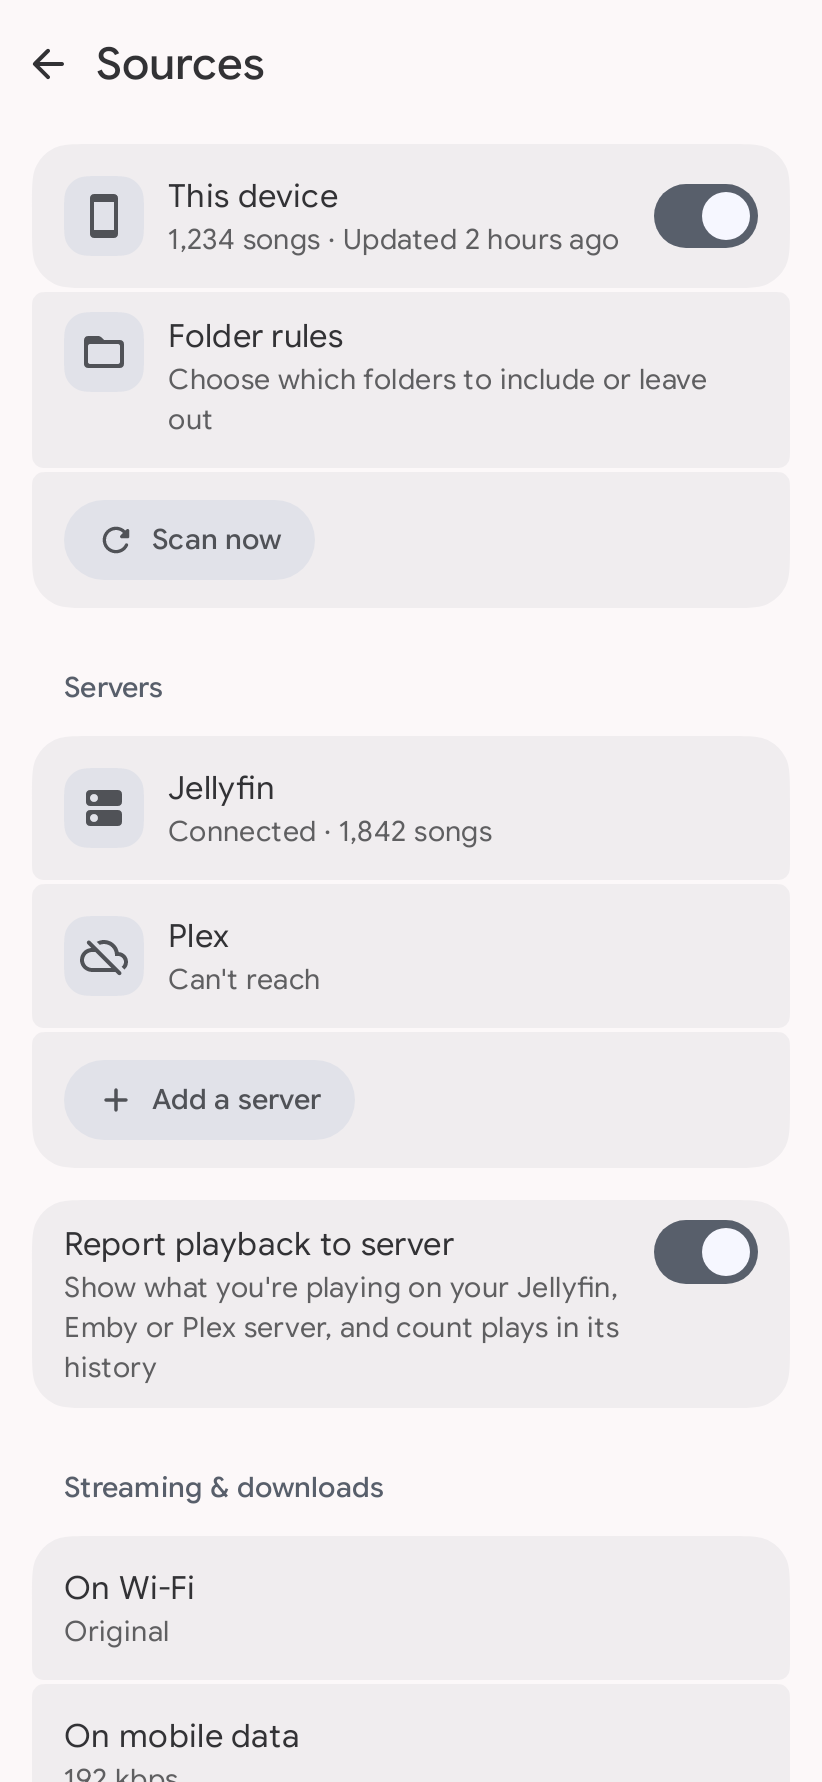
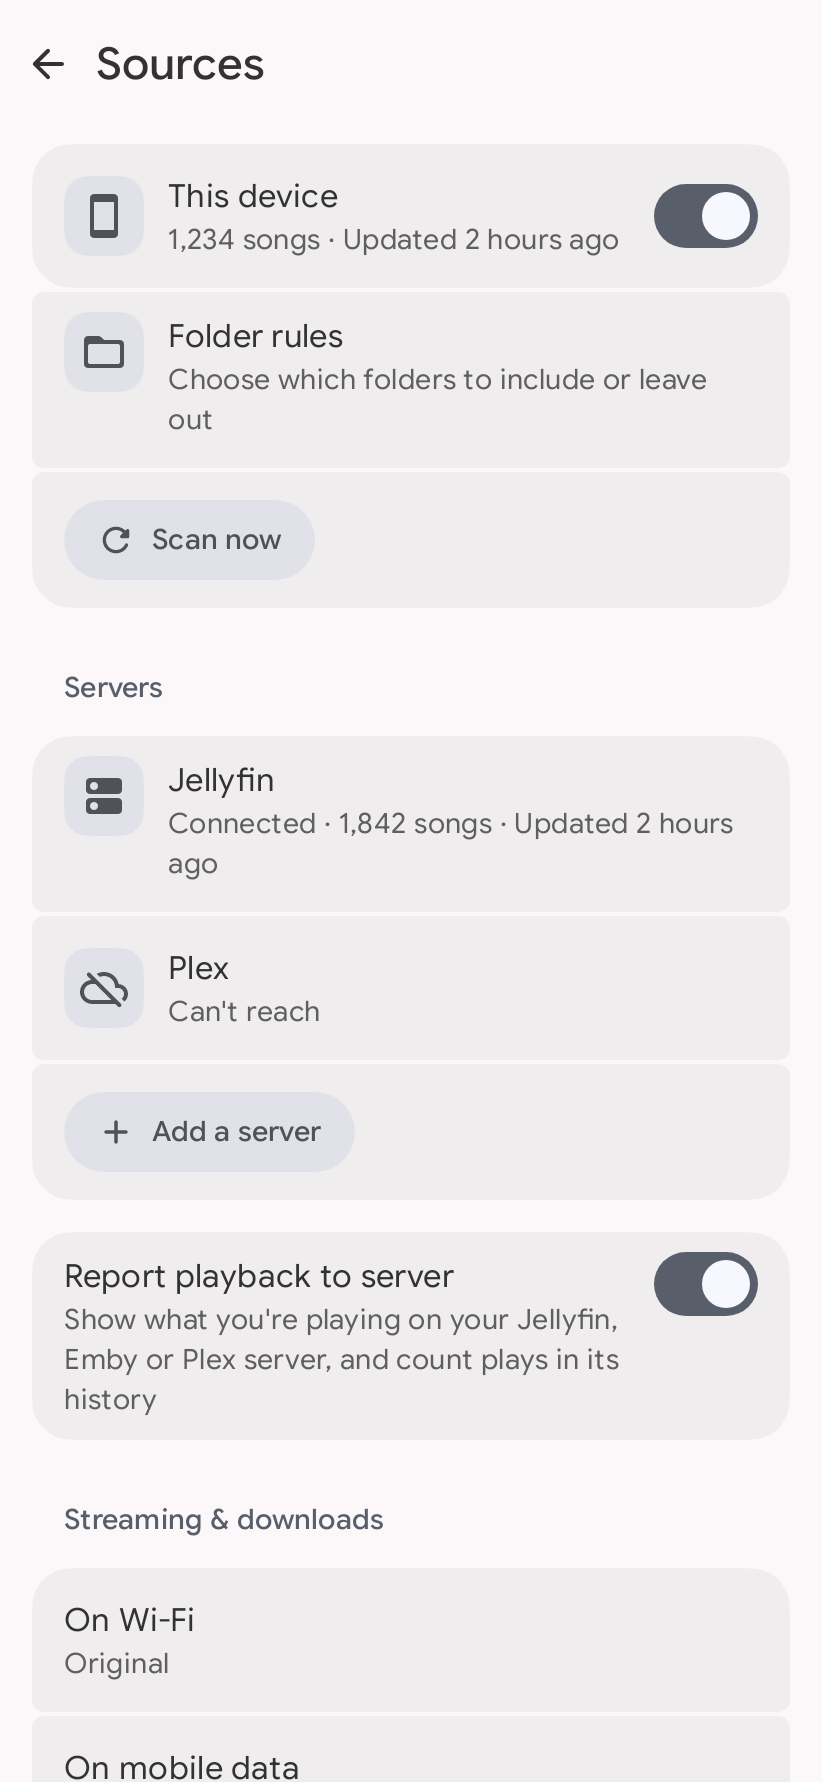
feat(sources): show each source's own last-updated time
MediaImporter records when each source's import last completed; Sources rows show it instead of the app-wide scan time.

Changelog: none
Refs #668 (items 1-2; the SourcesViewModel split stays deferred)

diff --git a/android/presentation/src/commonMain/kotlin/com/simplecityapps/shuttle/ui/screens/sources/SourcesViewModel.kt b/android/presentation/src/commonMain/kotlin/com/simplecityapps/shuttle/ui/screens/sources/SourcesViewModel.kt
@@ -29,6 +29,8 @@ data class ServerSource(
     val connected: Boolean,
     val status: SourceStatus = SourceStatus.Idle,
     val songs: Int? = null,
+    /** When an import from it last completed, if one has. */
+    val updated: Instant? = null,
 )
 
 data class SourcesUiState(
@@ -45,8 +47,10 @@ data class SourcesUiState(
     val deviceStatus: SourceStatus = SourceStatus.Idle,
     /** Songs from this device, once the library has loaded. */
     val deviceSongs: Int? = null,
+    /** When an import of this device's music last completed, if one has. */
+    val deviceUpdated: Instant? = null,
     val servers: List<ServerSource> = ServerTypes.map { ServerSource(it, connected = false) },
-    /** When an import last finished, if one ever has. */
+    /** When any import last finished, if one ever has: iOS's scan row shows it. */
     val lastImport: Instant? = null,
     val events: List<PendingEvent<SourcesEvent>> = emptyList(),
 )
@@ -78,11 +82,12 @@ class SourcesViewModel @Inject constructor(
     private val forgetServer: ForgetServer,
     observeSongCounts: ObserveSongCounts,
     observeSourceReachability: ObserveSourceReachability,
+    observeSourceUpdated: ObserveSourceUpdated,
 ) : ViewModel() {
     private val events = PendingEvents<SourcesEvent>()
 
     private val imports: Flow<Imports> =
-        combine(importState.songImportState, importState.providerImportStates, observeSongCounts(), observeSourceReachability(), ::Imports)
+        combine(importState.songImportState, importState.providerImportStates, observeSongCounts(), observeSourceReachability(), observeSourceUpdated(), ::Imports)
 
     val uiState: StateFlow<SourcesUiState> =
         combine(mediaSources.enabledTypes, observeScannerFolders(), imports, observeLastScanDate(), events.flow) { types, folders, imports, lastImport, events ->
@@ -95,8 +100,9 @@ class SourcesViewModel @Inject constructor(
                 scanError = (latest as? SongImportState.ImportComplete)?.error,
                 deviceStatus = sourceStatus(types.firstOrNull { it.isLocal }?.let(imports.byProvider::get)),
                 deviceSongs = imports.songCounts?.filterKeys { it.isLocal }?.values?.sum(),
+                deviceUpdated = imports.updated.filterKeys { it.isLocal }.values.filterNotNull().maxOrNull(),
                 servers = ServerTypes.map { type ->
-                    ServerSource(type, connected = type in types, status = sourceStatus(imports.byProvider[type], imports.reachability[type]), songs = imports.songCounts?.let { it[type] ?: 0 })
+                    ServerSource(type, connected = type in types, status = sourceStatus(imports.byProvider[type], imports.reachability[type]), songs = imports.songCounts?.let { it[type] ?: 0 }, updated = imports.updated[type])
                 },
                 lastImport = lastImport,
                 events = events,
@@ -145,11 +151,12 @@ class SourcesViewModel @Inject constructor(
 
     fun onEventHandled(id: Long) = events.consume(id)
 
-    /** The importer's latest state, each provider's own, the library's songs per provider, and how each server's last import ended. */
+    /** The importer's latest state, each provider's own, the library's songs per provider, how each server's last import ended, and when each source last updated. */
     private data class Imports(
         val latest: SongImportState,
         val byProvider: Map<MediaProviderType, SongImportState>,
         val songCounts: Map<MediaProviderType, Int>?,
         val reachability: Map<MediaProviderType, SourceReachability?>,
+        val updated: Map<MediaProviderType, Instant?>,
     )
 }

diff --git a/android/app/src/main/java/com/simplecityapps/shuttle/ui/screens/sources/SourcesScreen.kt b/android/app/src/main/java/com/simplecityapps/shuttle/ui/screens/sources/SourcesScreen.kt
@@ -115,7 +115,7 @@ fun LazyListScope.sourcesContent(uiState: SourcesUiState, actions: SourcesAction
                 @Composable { shapes: ListItemShapes ->
                     LinkSetting(
                         title = stringResource(server.type.titleRes),
-                        summary = serverStatusLine(server),
+                        summary = serverStatusLine(server, now),
                         onClick = { actions.onServerClick(server) },
                         icon = if (server.status is SourceStatus.Failed) Icons.Rounded.CloudOff else Icons.Rounded.Dns,
                         progress = server.status.progress,
@@ -138,7 +138,7 @@ fun LazyListScope.sourcesContent(uiState: SourcesUiState, actions: SourcesAction
     }
 }
 
-/** This device's status: a scan's progress or failure, else its songs and when the library last updated. */
+/** This device's status: a scan's progress or failure, else its songs and when it last updated. */
 @Composable
 private fun deviceStatusLine(uiState: SourcesUiState, now: Instant): String = when (val status = uiState.deviceStatus) {
     is SourceStatus.Importing -> status.progress?.let { progress ->
@@ -149,7 +149,7 @@ private fun deviceStatusLine(uiState: SourcesUiState, now: Instant): String = wh
 
     SourceStatus.Idle -> {
         val songs = uiState.deviceSongs?.let { songsLabel(it) }
-        val updated = uiState.lastImport?.let { updatedLabel(it, now) }
+        val updated = uiState.deviceUpdated?.let { updatedLabel(it, now) }
         when {
             songs != null && updated != null -> stringResource(R.string.sources_status_songs_updated, songs, updated)
             else -> songs ?: updated ?: stringResource(R.string.sources_this_device_summary)
@@ -157,9 +157,9 @@ private fun deviceStatusLine(uiState: SourcesUiState, now: Instant): String = wh
     }
 }
 
-/** A server's status: syncing with its progress, unreachable, or connected with its songs. */
+/** A server's status: syncing with its progress, unreachable, or connected with its songs and when it last updated. */
 @Composable
-private fun serverStatusLine(server: ServerSource): String = when (val status = server.status) {
+private fun serverStatusLine(server: ServerSource, now: Instant): String = when (val status = server.status) {
     is SourceStatus.Importing -> status.progress?.let { progress ->
         stringResource(R.string.sources_server_syncing_count, progress.progress.formatted(), progress.total.formatted())
     } ?: stringResource(R.string.sources_server_syncing)
@@ -168,7 +168,8 @@ private fun serverStatusLine(server: ServerSource): String = when (val status = 
 
     SourceStatus.Idle -> {
         val connected = stringResource(R.string.sources_server_connected)
-        server.songs?.let { stringResource(R.string.sources_status_songs_updated, connected, songsLabel(it)) } ?: connected
+        val withSongs = server.songs?.let { stringResource(R.string.sources_status_songs_updated, connected, songsLabel(it)) } ?: connected
+        server.updated?.let { stringResource(R.string.sources_status_songs_updated, withSongs, updatedLabel(it, now)) } ?: withSongs
     }
 }
 

diff --git a/android/presentation/src/commonTest/kotlin/com/simplecityapps/shuttle/ui/screens/sources/SourcesViewModelTest.kt b/android/presentation/src/commonTest/kotlin/com/simplecityapps/shuttle/ui/screens/sources/SourcesViewModelTest.kt
@@ -65,6 +65,7 @@ class SourcesViewModelTest {
         ForgetServer(mapOf(MediaProviderType.Emby to emby)),
         ObserveSongCounts(songs),
         ObserveSourceReachability(preferences),
+        ObserveSourceUpdated(preferences),
     ).also { viewModel ->
         backgroundScope.launch(UnconfinedTestDispatcher(testScheduler)) { viewModel.uiState.collect {} }
     }
@@ -205,6 +206,25 @@ class SourcesViewModelTest {
         importState.setState(SongImportState.ImportComplete(MediaProviderType.Jellyfin, null))
         preferences.setSourceReachability("Jellyfin", SourceReachability(null, Instant.fromEpochMilliseconds(2_000)))
         viewModel.uiState.value.servers.first { it.type == MediaProviderType.Jellyfin }.status shouldBe SourceStatus.Idle
+    }
+
+    @Test
+    fun `each source shows when its own import last completed`() = runTest {
+        val viewModel = viewModel(FakeMediaSources(MediaProviderType.Shuttle, MediaProviderType.Jellyfin, MediaProviderType.Plex))
+        val device = Instant.fromEpochMilliseconds(1_000)
+        val jellyfin = Instant.fromEpochMilliseconds(2_000)
+        viewModel.uiState.value.deviceUpdated shouldBe null
+        viewModel.uiState.value.servers.map { it.updated } shouldBe listOf(null, null, null)
+
+        preferences.setSourceUpdated("Shuttle", device)
+        preferences.setSourceUpdated("Jellyfin", jellyfin)
+
+        viewModel.uiState.value.deviceUpdated shouldBe device
+        viewModel.uiState.value.servers.associate { it.type to it.updated } shouldBe mapOf(
+            MediaProviderType.Jellyfin to jellyfin,
+            MediaProviderType.Emby to null,
+            MediaProviderType.Plex to null,
+        )
     }
 
     @Test

diff --git a/android/presentation/src/commonMain/kotlin/com/simplecityapps/shuttle/ui/screens/sources/SourceStatus.kt b/android/presentation/src/commonMain/kotlin/com/simplecityapps/shuttle/ui/screens/sources/SourceStatus.kt
@@ -8,6 +8,7 @@ import com.simplecityapps.shuttle.persistence.GeneralPreferenceManager
 import com.simplecityapps.shuttle.persistence.SourceReachability
 import com.simplecityapps.shuttle.query.SongQuery
 import dev.zacsweers.metro.Inject
+import kotlin.time.Instant
 import kotlinx.coroutines.flow.Flow
 import kotlinx.coroutines.flow.combine
 import kotlinx.coroutines.flow.map
@@ -32,6 +33,15 @@ internal fun sourceStatus(state: SongImportState?, stored: SourceReachability? =
     is SongImportState.ImportProgress -> SourceStatus.Importing(state.progress)
     is SongImportState.ImportComplete -> state.error?.let(SourceStatus::Failed) ?: SourceStatus.Idle
     SongImportState.Idle, null -> stored?.error?.let(SourceStatus::Failed) ?: SourceStatus.Idle
+}
+
+/** When each source's import last completed successfully, now and each time one does (#668). */
+class ObserveSourceUpdated @Inject constructor(
+    private val generalPreferenceManager: GeneralPreferenceManager
+) {
+    operator fun invoke(): Flow<Map<MediaProviderType, Instant?>> = combine(MediaProviderType.entries.map { type -> generalPreferenceManager.observeSourceUpdated(type.name) }) { updated ->
+        MediaProviderType.entries.zip(updated.toList()).toMap()
+    }
 }
 
 /** How each server's last import ended, now and each time one ends (#668). */

diff --git a/android/app/src/test/java/com/simplecityapps/shuttle/ui/screens/sources/SourcesScenarios.kt b/android/app/src/test/java/com/simplecityapps/shuttle/ui/screens/sources/SourcesScenarios.kt
@@ -10,7 +10,7 @@ object SourcesScenarios {
     /** "Now" for the status lines, so "Updated 2 hours ago" never moves. */
     val now: Instant = Instant.parse("2026-09-30T12:00:00Z")
 
-    private fun servers(vararg connected: Pair<MediaProviderType, SourceStatus>) = ServerTypes.map { type -> connected.toMap()[type]?.let { ServerSource(type, connected = true, status = it, songs = 1_842) } ?: ServerSource(type, connected = false) }
+    private fun servers(vararg connected: Pair<MediaProviderType, SourceStatus>) = ServerTypes.map { type -> connected.toMap()[type]?.let { ServerSource(type, connected = true, status = it, songs = 1_842, updated = now - 2.hours) } ?: ServerSource(type, connected = false) }
 
     /** This device on with an excluded and an extra folder, and Jellyfin connected; everything up to date. */
     val configured = SourcesUiState(
@@ -20,6 +20,7 @@ object SourcesScenarios {
             extras = listOf(SourceFolder(uri = "content://tree/Audiobooks", path = "/storage/emulated/0/Audiobooks", name = "Audiobooks")),
         ),
         deviceSongs = 1_234,
+        deviceUpdated = now - 2.hours,
         lastImport = now - 2.hours,
         servers = servers(MediaProviderType.Jellyfin to SourceStatus.Idle),
     )

diff --git a/android/core/src/commonMain/kotlin/com/simplecityapps/shuttle/persistence/GeneralPreferenceManager.kt b/android/core/src/commonMain/kotlin/com/simplecityapps/shuttle/persistence/GeneralPreferenceManager.kt
@@ -289,6 +289,17 @@ class GeneralPreferenceManager @Inject constructor(
     /** [sourceReachability] now and each time an import of [source] ends. */
     fun observeSourceReachability(source: String): Flow<SourceReachability?> = store.changes("source_checked_at_$source").map { sourceReachability(source) }.distinctUntilChanged()
 
+    /** When an import of [source] (a media provider type's name) last completed successfully, for its row in Sources (#668). */
+    fun sourceUpdated(source: String): Instant? = store.getInstant("source_updated_$source")
+
+    fun setSourceUpdated(
+        source: String,
+        updated: Instant?
+    ) = store.putInstant("source_updated_$source", updated)
+
+    /** [sourceUpdated] now and each time it changes. */
+    fun observeSourceUpdated(source: String): Flow<Instant?> = store.changes("source_updated_$source").map { sourceUpdated(source) }.distinctUntilChanged()
+
     /** The first-run source setup (iOS) was finished or skipped, so it never opens by itself again. */
     var sourceSetupCompleted: Boolean
         set(value) {

diff --git a/android/mediaprovider/core/src/commonMain/kotlin/com/simplecityapps/mediaprovider/MediaImporter.kt b/android/mediaprovider/core/src/commonMain/kotlin/com/simplecityapps/mediaprovider/MediaImporter.kt
@@ -332,7 +332,9 @@ class MediaImporter(
 
                     is FlowEvent.Success -> {
                         stored = event.result
-                        preferenceManager.setSourceReachability(type.name, SourceReachability(error = null, checkedAt = clock.now()))
+                        val completedAt = clock.now()
+                        preferenceManager.setSourceReachability(type.name, SourceReachability(error = null, checkedAt = completedAt))
+                        preferenceManager.setSourceUpdated(type.name, completedAt)
                         val changed = event.result.inserts + event.result.updates + event.result.deletes > 0
                         // A quiet sync that stored nothing stays silent, unless it clears an earlier failure.
                         val clearsError = (_providerImportStates.value[type] as? SongImportState.ImportComplete)?.error != null

diff --git a/android/core/src/commonTest/kotlin/com/simplecityapps/shuttle/persistence/GeneralPreferenceManagerTest.kt b/android/core/src/commonTest/kotlin/com/simplecityapps/shuttle/persistence/GeneralPreferenceManagerTest.kt
@@ -38,6 +38,15 @@ class GeneralPreferenceManagerTest {
         preferences.lastSyncStart("Jellyfin").shouldBeNull()
         preferences.lastFullSyncStart("Jellyfin").shouldBeNull()
         preferences.sourceReachability("Jellyfin").shouldBeNull()
+        preferences.sourceUpdated("Jellyfin").shouldBeNull()
+    }
+
+    @Test
+    fun `a source's updated time is kept per source`() {
+        preferences.setSourceUpdated("Jellyfin", Instant.fromEpochMilliseconds(1_000))
+
+        preferences.sourceUpdated("Jellyfin") shouldBe Instant.fromEpochMilliseconds(1_000)
+        preferences.sourceUpdated("Plex").shouldBeNull()
     }
 
     @Test

diff --git a/android/app/src/test/java/com/simplecityapps/shuttle/ui/screens/sources/OnboardingTest.kt b/android/app/src/test/java/com/simplecityapps/shuttle/ui/screens/sources/OnboardingTest.kt
@@ -103,7 +103,7 @@ class OnboardingTest {
     fun `connected servers show their status and open their options - add a server picks a type`() {
         robot.setSources(SourcesScenarios.serverUnreachable)
 
-        robot.assertTextDisplayed("Connected · 1,842 songs")
+        robot.assertTextDisplayed("Connected · 1,842 songs · Updated 2 hours ago")
         robot.assertTextDisplayed("Can't reach")
         robot.assertTextNotDisplayed("Emby")
         robot.clickText("Plex")
